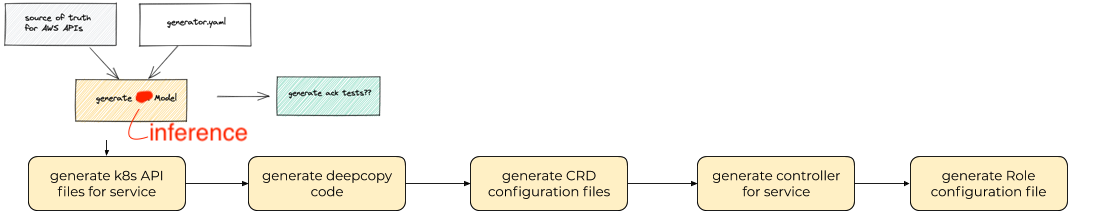
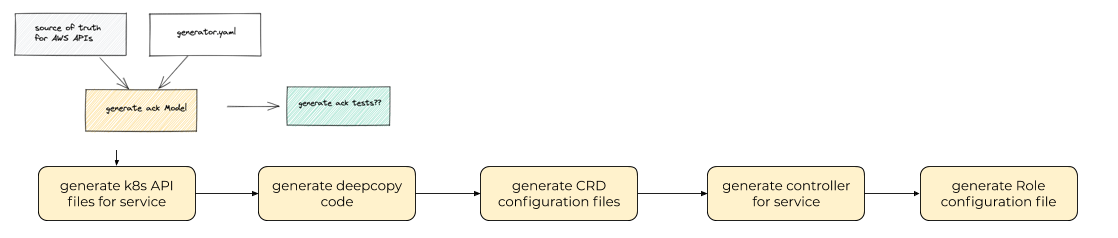
clarify diagrams and descriptions in summary

Changed region(s): [[0.0, 0.6606, 0.9909, 0.9908], [0.0619, 0.2752, 0.3716, 0.6606], [0.0, 0.0, 0.2477, 0.2752]]

diff --git a/docs/design/proposals/codegen-refactor/proposal-summary.md b/docs/design/proposals/codegen-refactor/proposal-summary.md
@@ -1,5 +1,5 @@
 ### Key Terms
-* `ACK platforn` | `platform`: the set of code generators, test frameworks, and model inference utilities that comprise the AWS Controllers for Kubernetes project.
+* `ACK platform` | `platform`: the set of code generators, test frameworks, and model inference utilities that comprise the AWS Controllers for Kubernetes project.
 * `pipeline`: the collection of all phases involved in code generation; depicted in this [diagram](https://aws-controllers-k8s.github.io/community/docs/contributor-docs/code-generation/#our-approach).
 * `ackgenconfig`: the [code](https://github.com/aws-controllers-k8s/code-generator/blob/82c294c2e8fc6ba23baa0034520e84351bb7a32f/pkg/generate/config/config.go#L24) representation of *generator.yaml*. an **input** to *code-generator*.
 * `resource` | `k8s-resource` | `ackcrd`: represented as CRD in [code](https://github.com/aws-controllers-k8s/code-generator/blob/82c294c2e8fc6ba23baa0034520e84351bb7a32f/pkg/model/crd.go#L63) is a single top-level resource in an AWS Service. *code-generator* generates these resources using heuristics and `ackgenconfig`.
@@ -29,25 +29,16 @@ Move configs to its own pkg, `pkg/config`, then split `ackgenconfig` into 2 cate
   * `pkg/config/model.go`: configuration to handle `API inference`
   * `pkg/config/generate.go`: configuration to handle and direct code generation functions
 
+The [Config struct](https://github.com/aws-controllers-k8s/code-generator/blob/02795c2056e23e1bb11dcc928ad0f0ba29790a8c/pkg/generate/config/config.go#L24) will retain all existing fields and add 2 new fields to represent the categories:
 
-
-![current-config-access](./images/current_config_access.png)
-* `r` represents a `resource` or `crd`
-* `SetResource` calls `r.GetOutputShape(op)` to retrieve the shape for a given operation
-* After, `SetResource` calls `r.GetOutputWrapperFieldPath(op)`; it's basically a wrapper for accessing `ackgenconfig`
-* Finally, `r.getWrapperOutputShape()` is called recursively and resolves which shape to return
-* `r` is doing a lot of work and it isn't clear what is being resolved
-
-
----
-
-![proposed-config-access](./images/proposed_config_access.png)
-* `m` represents `ackmodel`
-* `SetResource` calls `ackmodel` helpers now instead of `crd`
-* Under the hood, `ackmodel` will access `ackgenconfig` category to fetch requested config values
-* With `m` being the source of truth and `API inference` logic, it is safe to assume the output shape you get back takes all configs into account
-* Also, `resource` is no longer bogged down with helpers unrelated to a `resource`
-
+```
+type Config struct {
+  <existing fields>
+  InferenceConfig *InferenceConfig
+  GenerateConfig *GenerateConfig
+}
+```
+This refactoring is meant to cleanup the codebase and implementations and therefore, will not be exposed in *generator.yaml*. After separating out these new fields (and helpers), it becomes easier to identify and improve code doing too much (i.e. dealing with both sets of configs) AND any duplicate work being done relating to these configs (such as with `API inference`) can be isolated and made more efficient. As such, this is a prerequisite for `model` command work.
 
 ### Generator enhancements
 The `code` package is responsible for generating Go code, but has become overloaded with other functionality resulting in the accumulation of tech debt. This tech debt will be addressed in a number of ways:
@@ -57,9 +48,15 @@ The `code` package is responsible for generating Go code, but has become overloa
 * generalizing areas with hard-coded use cases.
 
 ### New command `./ack-generate model`
-`model` takes `aws-sdk` and *generator.yaml* as **input**, discovers between the 2, persists and caches the data as serialized JSON, then **outputs** `ackmodel` (default location: `~./cache/aws-controllers-k8s/ack-model.json`). Existing commands, `apis` and `controller`, will be downstream and take `ackmodel` as an input. This will immediately improve the `pipeline` by removing duplicated `inference` work being done in both commands and clean up generator implementations.
+`model` takes `aws-sdk` and *generator.yaml* as **input**, discovers relations between the 2, persists and caches the data as serialized JSON, then **outputs** `ackmodel` (default location: `~./cache/aws-controllers-k8s/ack-model.json`). Existing commands, `apis` and `controller`, will be downstream and take `ackmodel` as an input. This will immediately improve the `pipeline` by removing duplicated `inference` work being done in both commands, thus cleaning up generator implementations like [SetResource](https://github.com/aws-controllers-k8s/code-generator/blob/02795c2056e23e1bb11dcc928ad0f0ba29790a8c/pkg/generate/code/set_resource.go#L142):
 
- With a new `model` command, the code generation can flow from a common `inference` source which also creates opportunity for future commands:
+![proposed-cleanup](./images/proposed_cleanup.png)
+* Today, fetching renames and finding the corresponding field is `API inference` work being done by a *code-generating* function, `SetResource`
+* After implementing `model` command, `inference` data will be **persisted** in `ackmodel` (containing `crds` and its fields). Then `SetResource` can iterate over this persisted data where `inferences` such as renames are either automatically applied or easily resolved by querying `ackmodel`.
+
+
+
+Lastly, with a new `model` command, the code generation can flow from a common `inference` source which also creates opportunity for future commands:
 
 ![proposed-gen](./images/proposed_gen.png)
 
